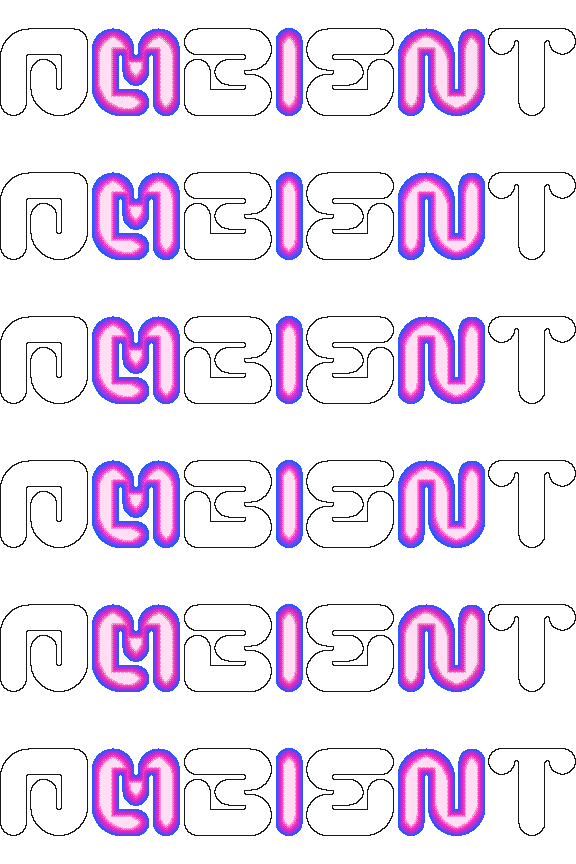
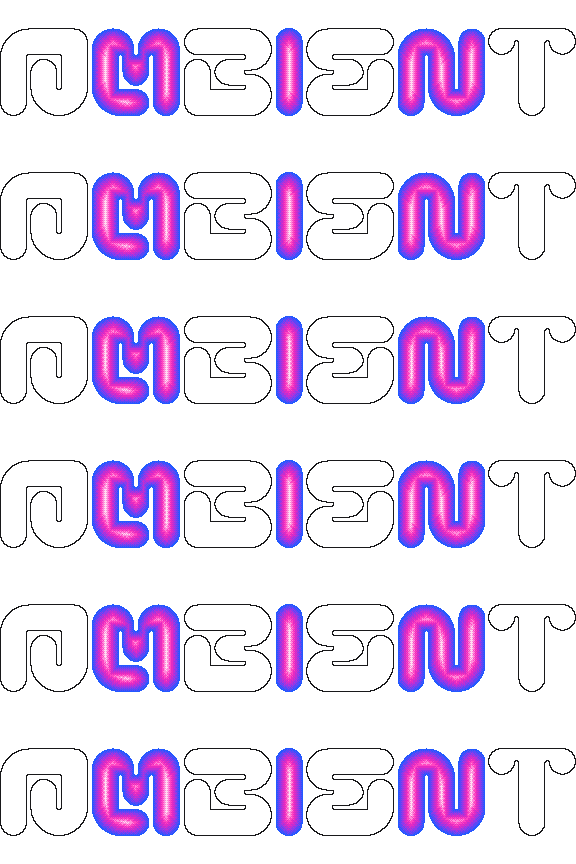
The light as the instrument's mark: every graphic's body lit; the emulator's keys 8-bit
On the screen, the filter's response, the envelopes, the LFO and the sample's shape are
lit under their ink lines, one shape each, the thermal light from its edges in; depth now
counts to 20, so a big shape's light fades from the rim over 20 px. The emulator's lit
keys and buttons are sprites of their shapes lit the same way, their bits moving. The
screens' legend is a ruled table.

diff --git a/web/app.js b/web/app.js
@@ -1,8 +1,8 @@
 // SPDX-License-Identifier: GPL-3.0-only
 // Demake's emulator page: the FM-1's panel as line art (its geometry as the community's emulators measured it, as
 // MONO2K's panel.js has it), the screen from the worklet, and the controls from mouse, touch and the computer's keys.
-// A monotone panel in the screen's colours, and what is lit in the screen's thermal light: rings from the shape's edge
-// in (a blue rim, a magenta body, a pale core), an SVG filter of erosions, the chessboard depth the screen uses.
+// A monotone panel in the screen's colours, and what is lit in the screen's thermal light, 8-bit: a sprite of the lit
+// shape over each key and button, lit from its edge in by the chessboard depth the screen uses.
 (() => {
   "use strict";
   const NS = "http://www.w3.org/2000/svg";
@@ -28,31 +28,34 @@
   const el = (t, a, p) => { const e = document.createElementNS(NS, t); for (const k in a) e.setAttribute(k, a[k]); (p || svg).appendChild(e); return e; };
   const label = (x, y, s, size = 11, fill = INK) => { const t = el("text", { x, y, "text-anchor": "middle", fill, "font-size": size, "font-family": "geist, sans-serif", "font-weight": 500 }); t.textContent = s; return t; };
 
-  // ---- the panel: one ink line, rounded; what is lit glows from its edge in
-  {
-    const defs = el("defs", {}), f = el("filter", { id: "lit", x: "-5%", y: "-5%", width: "110%", height: "110%" }, defs);
-    const RINGS = [[0, "#2459ff"], [2, "#8e3aea"], [4.5, "#e52bc2"], [8, "#ff8cda"], [12, "#ffddf2"]];
-    RINGS.forEach(([r, c], i) => {
-      if (r) el("feMorphology", { in: "SourceAlpha", operator: "erode", radius: r, result: "a" + i }, f);
-      el("feFlood", { "flood-color": c, result: "c" + i }, f);
-      el("feComposite", { in: "c" + i, in2: r ? "a" + i : "SourceAlpha", operator: "in", result: "r" + i }, f);
-    });
-    const m = el("feMerge", {}, f);
-    RINGS.forEach((_, i) => el("feMergeNode", { in: "r" + i }, m));
-  }
-  const light = (e, on, fill) => { e.setAttribute("fill", fill); if (on) e.setAttribute("filter", "url(#lit)"); else e.removeAttribute("filter"); };
+  // ---- the panel: one ink line, rounded; what is lit glows from its edge in, 8-bit, as the screen draws it: a sprite
+  // over the key or the button (tools/gen_art.py), its bits stepping through the six arrangements
+  const lits = [];
+  const litImg = (x, y, w, h, shape) => {
+    const im = el("image", { x, y, width: w, height: h, href: `img/bits/${shape}_0.png`, preserveAspectRatio: "none", "pointer-events": "none" });
+    im.style.imageRendering = "pixelated"; im.style.display = "none"; im.dataset.shape = shape;
+    for (let k = 0; k < 6; k++) new Image().src = `img/bits/${shape}_${k}.png`;
+    lits.push(im);
+    return im;
+  };
+  const light = (e, on, fill) => { e.setAttribute("fill", fill); e.img.style.display = on ? "" : "none"; };
+  setInterval(() => {
+    for (const im of lits) if (im.style.display !== "none" && Math.random() < 0.5) im.setAttribute("href", `img/bits/${im.dataset.shape}_${(Math.random() * 6) | 0}.png`);
+  }, 140);
   el("rect", { x: 20, y: 20, width: 864, height: 526, rx: 44, fill: PAPER, stroke: INK, "stroke-width": 2 });
   el("rect", { x: LCD[0] - 9, y: LCD[1] - 9, width: LCD[2] + 18, height: LCD[2] + 18, rx: 16, fill: INK });
   const keyEls = KEYR.map(([x, y, w, h], k) => {
     const b = isBlack(k);
     const r = el("rect", { x: x - w / 2, y, width: w, height: h, rx: 10, fill: b ? INK : PAPER, stroke: INK, "stroke-width": 1.5 });
     r.dataset.k = k;
+    r.img = litImg(x - w / 2, y, w, h, b ? "keyb" : "keyw");
     return r;
   });
   el("line", { x1: 46, y1: 316, x2: 858, y2: 316, stroke: INK, "stroke-width": 1 });
   const btnEls = BTNR.map(([x, y, w, h], i) => {
     const r = el("rect", { x: x - w / 2, y: y - h / 2, width: w, height: h, rx: 12, fill: PAPER, stroke: INK, "stroke-width": 1.5 });
     r.dataset.b = i;
+    r.img = litImg(x - w / 2, y - h / 2, w, h, i < 12 ? "btn" : "oct");
     const t = label(x, y + 4, BTN[i]);
     t.setAttribute("pointer-events", "none");
     if (ROLE[i]) label(x, y + h / 2 + 13, ROLE[i], 10, LABEL);

diff --git a/web/style.css b/web/style.css
@@ -192,8 +192,11 @@ kbd {
 .shown { grid-column: 1 / span 9; grid-row: 11; padding-top: 12px; color: var(--label); }
 .shown b { color: var(--ink); margin-right: 6px; }
 .legend { grid-column: 11 / span 14; grid-row: 2 / span 10; margin: 0; padding: 0; list-style: none; display: grid; grid-auto-rows: calc(2 * var(--m)); }
-.legend li { display: flex; flex-wrap: wrap; align-items: flex-start; align-content: flex-start; column-gap: 12px; padding-top: 12px; }
-.legend li span { color: var(--label); }
+/* the legend: a ruled table, two rows an item: the mark and its name, then what it is */
+.legend { box-shadow: inset 0 -1px 0 var(--line); }
+.legend li { display: grid; grid-template-columns: 36px 1fr; grid-auto-rows: 24px; align-content: start; padding-top: 12px; box-shadow: inset 0 1px 0 var(--line); }
+.legend li .mk { grid-row: 1; }
+.legend li span { grid-column: 2; color: var(--label); }
 .index { grid-column: 1 / -1; grid-row: 13 / span 3; display: grid; grid-template-columns: repeat(6, calc(4 * var(--m))); grid-auto-rows: var(--m); }
 .ih { grid-column: 1 / -1; padding-top: 12px; color: var(--label); }
 .ih b { color: var(--ink); margin-right: 6px; }
@@ -252,7 +255,6 @@ kbd {
   .r5 { grid-column: 1 / span 7; grid-row: 10 / span 3; } .r6 { grid-column: 9 / span 8; grid-row: 10 / span 3; }
   .screens { grid-template-rows: repeat(18, var(--m)); }
   .legend { grid-column: 11 / span 6; }
-  .legend li { flex-direction: column; }
   .index { grid-row: 13 / span 4; grid-template-columns: repeat(4, calc(4 * var(--m))); }
   .bandrow { grid-template-rows: repeat(10, var(--m)); }
   .band { grid-row: 2 / span 8; }
@@ -312,7 +314,7 @@ kbd {
   .m4 { left: 120px; top: 114px; } .m5 { left: 102px; top: 162px; }
   .shown { grid-column: 1 / -1; grid-row: 8; padding-left: 48px; }
   .legend { grid-column: 1 / -1; grid-row: 9 / span 10; }
-  .legend li { flex-direction: column; }
+  .legend li { grid-auto-rows: auto; }
   .index { grid-row: 20 / span 13; grid-template-columns: 1fr; }
   .bandrow { grid-template-rows: repeat(6, var(--m)); }
   .band { grid-row: 2 / span 4; align-self: center; }

diff --git a/firmware/src/dmk_ui.c b/firmware/src/dmk_ui.c
@@ -283,28 +283,51 @@ static void stage_roll(void)
     round_fill(cur - 2, gy - 3, 4, rh * 7 + 6, 2, HOLO);
 }
 
+/* a graphic's body, lit: the band between ya[] and yb[] as one shape, the thermal light from its edges in; the ink
+ * line goes over it */
+static void lit_band(int x0, int w, const int16_t *ya, const int16_t *yb)
+{
+    int i;
+    for (i = 0; i < w; i++) if (yb[i] > ya[i]) vline(x0 + i, ya[i], yb[i] - ya[i], HOLO);
+    holo_done();
+}
+
+static void ink_line(int x0, int w, const int16_t *ys)
+{
+    int i, yp = ys[0];
+    for (i = 0; i < w; i++) {
+        int y = ys[i];
+        vline(x0 + i, y < yp ? y : yp, (y < yp ? yp - y : y - yp) + 2, C_INK);
+        yp = y;
+    }
+}
+
 static void stage_sound(void)
 {
+    int16_t ya[DMK_W], yb[DMK_W];
     int i, mid = SY + 74, x0 = SX + PAD + 1, w = SW - 2 * PAD - 2;
     card(SX, SY, SW, SH, C_LINE, 1);
     if (ui.row[PG_SOUND]) card_title(SX, SY, SW, "No layer", "Layer", 0);
     else card_title(SX, SY, SW, SYNTH_SOUND[ui.synth], "Sample", 0);
-    for (i = 0; i < w; i++) {                           /* the sample's envelope as a line */
+    for (i = 0; i < w; i++) {                           /* the sample's envelope: its body lit, its edge in ink */
         int h = i < 8 ? i * 4 : 32 - i / 7;
         if (h < 1) h = 1;
-        px_put(x0 + i, mid - h, C_INK);
-        px_put(x0 + i, mid + h, C_INK);
+        ya[i] = (int16_t)(mid - h); yb[i] = (int16_t)(mid + h + 1);
     }
-    round_fill(x0 + w * 3 / 5, mid - 36, 4, 72, 2, HOLO);   /* the loop's ends, lit */
-    round_fill(x0 + w * 4 / 5, mid - 36, 4, 72, 2, HOLO);
+    lit_band(x0, w, ya, yb);
+    for (i = 0; i < w; i++) { px_put(x0 + i, ya[i], C_INK); px_put(x0 + i, yb[i] - 1, C_INK); }
+    round_fill(x0 + w * 3 / 5, mid - 38, 4, 76, 2, C_INK);   /* the loop's ends */
+    round_fill(x0 + w * 4 / 5, mid - 38, 4, 76, 2, C_INK);
 }
 
 static void stage_curve(int amp)
 {
+    int16_t ys[DMK_W], yb[DMK_W];
     int i, x0 = SX + PAD + 1, w = SW - 2 * PAD - 2, base = SY + SH - 14, top = SY + 14;
     card(SX, SY, SW, SH, C_LINE, 1);
-    if (!amp) {
-        int fc = x0 + ui.val[PG_FILTER][0][0] * w / 127, q = ui.val[PG_FILTER][0][1] / 4, ly = top + 40, yp = ly;
+    for (i = 0; i < w; i++) yb[i] = (int16_t)(base + 1);
+    if (!amp) {                                         /* the response: its body lit under the curve */
+        int fc = x0 + ui.val[PG_FILTER][0][0] * w / 127, q = ui.val[PG_FILTER][0][1] / 4, ly = top + 40;
         for (i = 0; i < w; i++) {
             int x = x0 + i, y;
             if (x < fc - 12) y = ly;
@@ -312,22 +335,22 @@ static void stage_curve(int amp)
             else y = ly - q + (x - fc) * 3;
             if (y > base) y = base;
             if (y < top) y = top;
-            vline(x, y < yp ? y : yp, (y < yp ? yp - y : y - yp) + 2, C_INK);
-            yp = y;
+            ys[i] = (int16_t)y;
         }
+        lit_band(x0, w, ys, yb);
+        ink_line(x0, w, ys);
         round_fill(fc - 4, base - 4, 9, 9, 4, lit(0) ? HOLO : C_INK);
-    } else {
+    } else {                                            /* the envelope: its body lit under the line */
         int a = ui.val[PG_AMP][0][0] / 3 + 4, d = ui.val[PG_AMP][0][1] / 3 + 4, s = ui.val[PG_AMP][0][2];
         int r = ui.val[PG_AMP][0][3] / 3 + 4, hold = w - a - d - r, sy = base - (s * (base - top)) / 127;
         int pts[5][2] = {{x0, base}, {x0 + a, top}, {x0 + a + d, sy}, {x0 + a + d + hold, sy}, {x0 + w - 1, base}};
         for (i = 0; i < 4; i++) {
-            int k, n = pts[i + 1][0] - pts[i][0], yp = pts[i][1];
-            for (k = 0; k <= n; k++) {
-                int y = pts[i][1] + (n ? (pts[i + 1][1] - pts[i][1]) * k / n : 0);
-                vline(pts[i][0] + k, y < yp ? y : yp, (y < yp ? yp - y : y - yp) + 2, C_INK);
-                yp = y;
-            }
+            int k, n = pts[i + 1][0] - pts[i][0];
+            for (k = 0; k <= n && pts[i][0] + k - x0 < w; k++)
+                ys[pts[i][0] + k - x0] = (int16_t)(pts[i][1] + (n ? (pts[i + 1][1] - pts[i][1]) * k / n : 0));
         }
+        lit_band(x0, w, ys, yb);
+        ink_line(x0, w, ys);
         for (i = 1; i < 4; i++) round_fill(pts[i][0] - 4, pts[i][1] - 4, 9, 9, 4, lit(i - 1) ? HOLO : C_INK);
     }
 }

diff --git a/firmware/src/dmk_gfx.c b/firmware/src/dmk_gfx.c
@@ -21,7 +21,7 @@ static void clip_all(void) { cx0 = cy0 = 0; cx1 = DMK_W; cy1 = DMK_H; }
  * (HMARK); when the shape is drawn, holo_done() turns its marks into the ramp. Text and a hairline are the magenta
  * body; a thin bar a blue rim on it; only a big shape reaches the pale core */
 #define HOLO (-1)
-#define TH_MAX (DMK_W * 64)                              /* the largest lit shape's box, in pixels */
+#define TH_MAX (DMK_W * 128)                             /* the largest lit shape's box, in pixels: a graphic's body */
 static uint8_t th_d[TH_MAX] POOL;
 static int hx0 = DMK_W, hy0 = DMK_H, hx1 = -1, hy1 = -1; /* the marks' box */
 static int holo_hold;                                    /* >0: inside a shape made of several fills */
@@ -30,6 +30,7 @@ static uint8_t holo_pat;                                 /* which of the dither'
 /* [the shape's greatest depth]: how far in its deepest ring goes, sixteenths of a tone (64: the magenta body; 112:
  * the core). Between the rim and that, the rings share the ramp, dithered */
 static const uint8_t TH_PMAX[10] = {64, 64, 64, 76, 88, 100, 112, 112, 112, 112};
+#define TH_DEEP 20                                       /* depth counts to here: a big shape's light fades over 20 px */
 
 static inline int px_get(int x, int y)
 {
@@ -60,7 +61,7 @@ static void holo_done(void)
     if (w * h > TH_MAX) {                               /* too big a box: the body's tone, flat */
         for (y = hy0; y <= hy1; y++) for (x = hx0; x <= hx1; x++) if (px_get(x, y) == C_HMARK) px_put(x, y, C_HOLO4);
     } else {
-        for (y = 0, i = 0; y < h; y++) for (x = 0; x < w; x++, i++) th_d[i] = px_get(hx0 + x, hy0 + y) == C_HMARK ? 9 : 0;
+        for (y = 0, i = 0; y < h; y++) for (x = 0; x < w; x++, i++) th_d[i] = px_get(hx0 + x, hy0 + y) == C_HMARK ? TH_DEEP : 0;
         for (y = 0, i = 0; y < h; y++)
             for (x = 0; x < w; x++, i++) {
                 int m;
@@ -90,7 +91,7 @@ static void holo_done(void)
             }
         /* the shape's own ramp: its rim blue, its deepest ring as far in as its size allows; a hairline is body */
         if (holo_flat && dmax > 2) holo_flat = 0;      /* a heavy face (the wordmark) keeps its rings */
-        pmax = TH_PMAX[holo_flat ? 1 : dmax];
+        pmax = TH_PMAX[holo_flat ? 1 : dmax > 9 ? 9 : dmax];
         for (y = 0, i = 0; y < h; y++)
             for (x = 0; x < w; x++, i++) {
                 int p, t, X = hx0 + x, Y = hy0 + y;

diff --git a/tools/gen_art.py b/tools/gen_art.py
@@ -122,9 +122,9 @@ def tones(p, pat):
 
 
 def depth(mask):
-    """each pixel's depth in its shape: the chessboard distance to the nearest unlit pixel, capped at 9"""
+    """each pixel's depth in its shape: the chessboard distance to the nearest unlit pixel, capped at 20 (TH_DEEP)"""
     h, w = mask.shape
-    d = np.where(mask, 9, 0).astype(np.int32)
+    d = np.where(mask, 20, 0).astype(np.int32)
     for y in range(h):                                   # the two chamfer passes
         for x in range(w):
             if d[y, x]:
@@ -144,7 +144,7 @@ def lit_p(mask, d=None):
     """a lit shape's place on the ramp per pixel, as holo_done lays it"""
     d = depth(mask) if d is None else d
     dmax = int(d.max()) or 1
-    pmax = TH_PMAX[dmax]
+    pmax = TH_PMAX[min(dmax, 9)]
     return np.where(d > 0, pmax if dmax == 1 else (d - 1) * pmax // (dmax - 1), 0)
 
 
@@ -336,6 +336,17 @@ def graphics():
             f[..., 3] = np.where(outer & ~inner, 255, 0)
             Image.fromarray(big(f), "RGBA").save(BITS / f"ring{rad}_{k}.png", optimize=True)
         print(f"web/img/bits/ring{rad}_0..5.png: {2 * n} px, slice {rad if rad >= 12 else 12}")
+    # the emulator's lit keys and buttons, in the panel's own units (2 a cell): a white key, a black key, a button,
+    # an octave button, each lit from its edge in, six arrangements, for the SVG to show when the core lights them
+    for name, w, h, r in (("keyw", 44, 112, 10), ("keyb", 38, 70, 10), ("btn", 40, 34, 12), ("oct", 48, 26, 12)):
+        n, m = w // 2, h // 2
+        mask = rr(n, m, 0, 0, n, m, r // 2)
+        p = lit_p(mask)
+        for k in range(6):
+            f = np.zeros((m, n, 4), np.uint8)
+            f[mask, :3] = PAL[tones(p, k)][mask]
+            f[mask, 3] = 255
+            Image.fromarray(big(f), "RGBA").save(BITS / f"{name}_{k}.png", optimize=True)
     print("web/img/plate.png, band.png (%d cells tall), seal.png, frame288.png, frame528.png, frame432.png: six frames each" % H)
 
 

diff --git a/docs/plan.md b/docs/plan.md
@@ -702,8 +702,9 @@ history):
 | HMARK | a lit pixel's mark until its shape is finished (never shown) | | |
 
 What is lit: the value turning (for a second), the cursor, a sounding synth, the pattern playing (a queued one is a
-magenta ring), the chord now. HOLO as a colour marks the pixels; when the shape is drawn, `holo_done` measures each
-pixel's chessboard depth (two chamfer passes over the shape's box) and lays the ramp from the rim to as far in as the
+magenta ring), the chord now, and the body of every graphic (the filter's response, the envelopes, the LFO, the
+sample's shape) under its ink line: the light is the instrument's mark. HOLO as a colour marks the pixels; when the shape is drawn, `holo_done` measures each
+pixel's chessboard depth (two chamfer passes over the shape's box, counted to 20) and lays the ramp from the rim to as far in as the
 shape's size allows (`TH_PMAX`): text and hairlines are the magenta body, a 4 px bar a blue rim on it, a big card the
 whole ramp to its pale core. Every 140 ms the dither takes one of six arrangements at random (T_BAYER6: moved,
 mirrored, turned), so the light holds and its bits move. The other three entries are the glyphs' anti-aliasing
@@ -765,7 +766,7 @@ hairlines, and a product maker's index; it replaced the specimen table and the o
 - **8-bit, everywhere it is lit:** the wordmark, the D, the plate, the band's lit letters, the seal, the screens'
   frames and the art (drawn in the browser at 2 px a cell through the ground, a deep blue and the thermal ramp), and
   the lit state of any box (the action, a hover, the playing tile: a dithered ring round a pale core, by
-  border-image). Every lit thing steps at random through the dither's six arrangements (T_BAYER6, as the screen
+  border-image), and the emulator's lit keys and buttons (a sprite of each shape, lit from its edge in). Every lit thing steps at random through the dither's six arrangements (T_BAYER6, as the screen
   does), so its bits move and its light stays; none when the reader asks for less motion.
 - **The sections:** the D and the index; the wordmark; the machine on its light, power, volume as a meter, the keys
   as keycaps (the Felucca emulator's map: Z–/ and S–' the lower keys, Q–O the upper, 1–= the buttons, [ ] OCT, the
